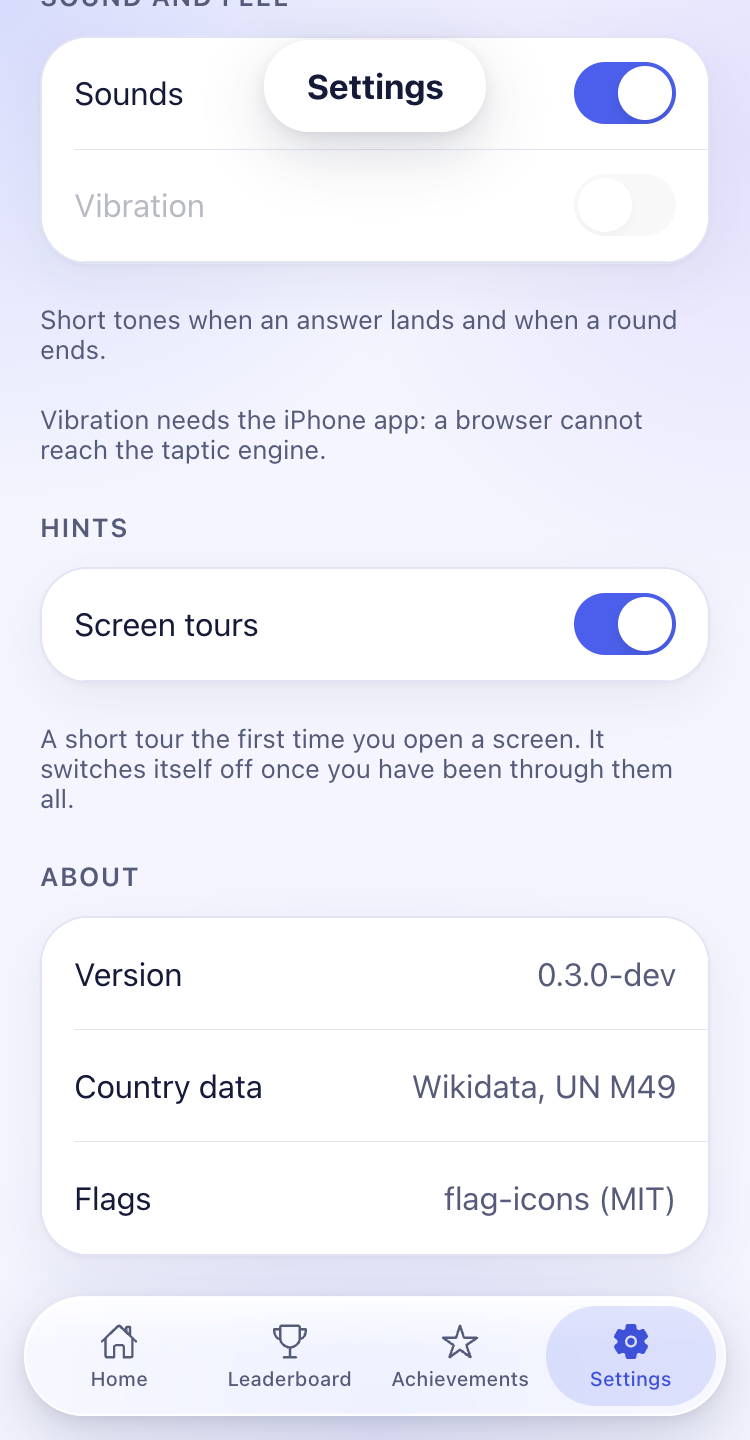
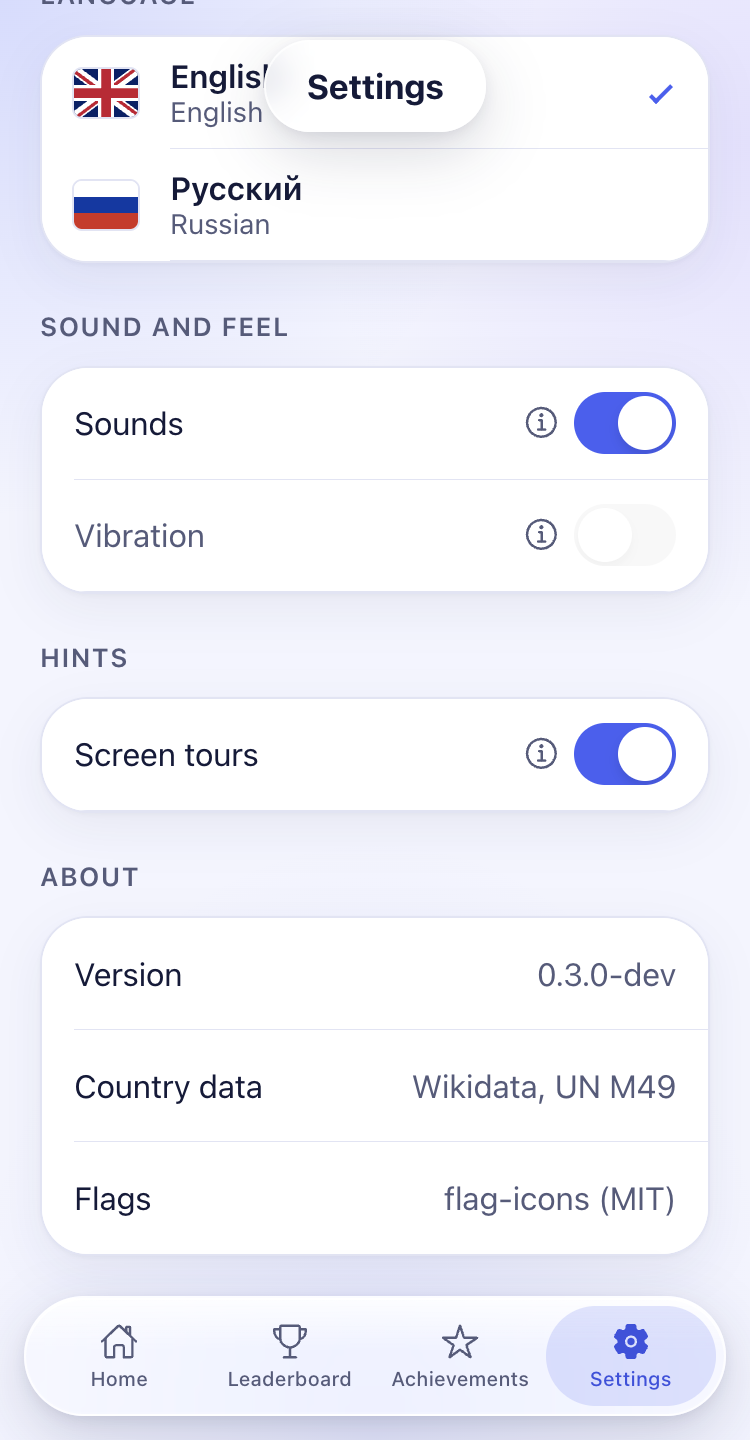
feat: a setting's note behind an "i" on its own row
Three notes stacked under the two Sound and haptics toggles read as one
block, and the note under the Screen tours switch looked like the start
of the next section rather than an explanation of the switch above it.

Each row now carries a named "i" button that opens its own text in a
popover anchored to the press, so the note arrives pointing at the
control it belongs to. The disabled vibration toggle is the exception
that must explain itself without being asked: its reason also stays in
a visually hidden paragraph it points at with aria-describedby.

Ionic puts aria-modal on ion-popover but gives it no role, which axe
reports as a forbidden ARIA attribute; the popover says role="dialog",
which it is, and can then be named as well.

diff --git a/apps/shell/src/app/settings/settings.page.html b/apps/shell/src/app/settings/settings.page.html
@@ -65,36 +65,56 @@
       <h2 id="feel-title" class="wq-section-title">
         {{ 'settings.feel.title' | transloco }}
       </h2>
+      <!-- Each note belongs to its own row, behind the "i": stacked under
+           the card they ran together and it took reading to tell which
+           control each one was about (design-system.md). -->
       <div class="list">
         <ion-item>
+          <ion-label>{{ 'settings.feel.sound' | transloco }}</ion-label>
+          <wq-info-button
+            slot="end"
+            data-testid="sound-info"
+            [label]="'settings.info'| transloco: { name: 'settings.feel.sound' | transloco }"
+            [text]="'settings.feel.soundHint' | transloco"
+          />
           <ion-toggle
+            slot="end"
             data-testid="sound-toggle"
+            [attr.aria-label]="'settings.feel.sound' | transloco"
             [checked]="settings.sound()"
             (ionChange)="onSoundChange($event)"
-          >
-            {{ 'settings.feel.sound' | transloco }}
-          </ion-toggle>
+          />
         </ion-item>
         <!-- Shown everywhere, so the app never looks as if it were missing a
-             setting; a browser simply has no taptic engine, and the note
-             below says so. -->
+             setting; a browser simply has no taptic engine, and the toggle
+             says so to anyone who asks it. -->
         <ion-item>
+          <!-- The toggle used to carry this text and greyed it out itself
+               when it was disabled; now the row says it. -->
+          <ion-label [class.unavailable]="!nativePlatform">
+            {{ 'settings.feel.haptics' | transloco }}
+          </ion-label>
+          <wq-info-button
+            slot="end"
+            data-testid="haptics-info"
+            [label]="'settings.info' | transloco: { name: 'settings.feel.haptics' | transloco }"
+            [text]="(nativePlatform? 'settings.feel.hapticsHint': 'settings.feel.hapticsOnIos') | transloco"
+          />
           <ion-toggle
+            slot="end"
             data-testid="haptics-toggle"
+            [attr.aria-label]="'settings.feel.haptics' | transloco"
             [checked]="nativePlatform && settings.haptics()"
             [disabled]="!nativePlatform"
             [attr.aria-describedby]="nativePlatform ? null : 'haptics-note'"
             (ionChange)="onHapticsChange($event)"
-          >
-            {{ 'settings.feel.haptics' | transloco }}
-          </ion-toggle>
+          />
         </ion-item>
       </div>
-      <p class="wq-text-secondary hint">
-        {{ 'settings.feel.hint' | transloco }}
-      </p>
+      <!-- A disabled control must explain itself without being asked, so
+           the reason is on the toggle as well as behind the "i". -->
       @if (!nativePlatform) {
-      <p id="haptics-note" class="wq-text-secondary hint">
+      <p id="haptics-note" class="wq-visually-hidden">
         {{ 'settings.feel.hapticsOnIos' | transloco }}
       </p>
       }
@@ -109,18 +129,22 @@
            it back on starts them again (tips.store.ts). -->
       <div class="list">
         <ion-item>
+          <ion-label>{{ 'settings.tips.label' | transloco }}</ion-label>
+          <wq-info-button
+            slot="end"
+            data-testid="tips-info"
+            [label]="'settings.info' | transloco: { name: 'settings.tips.label' | transloco }"
+            [text]="'settings.tips.hint' | transloco"
+          />
           <ion-toggle
+            slot="end"
             data-testid="tips-toggle"
+            [attr.aria-label]="'settings.tips.label' | transloco"
             [checked]="tips.on()"
             (ionChange)="onTipsChange($event)"
-          >
-            {{ 'settings.tips.label' | transloco }}
-          </ion-toggle>
+          />
         </ion-item>
       </div>
-      <p class="wq-text-secondary hint">
-        {{ 'settings.tips.hint' | transloco }}
-      </p>
     </section>
 
     <section class="wq-section" aria-labelledby="about-title">

diff --git a/libs/client/ui/src/lib/info/info-button.ts b/libs/client/ui/src/lib/info/info-button.ts
@@ -1,0 +1,63 @@
+import { Component, input, signal } from '@angular/core';
+import { IonContent, IonIcon, IonPopover } from '@ionic/angular';
+
+/**
+ * The "i" beside a setting, and the note it opens.
+ *
+ * A note under a group of settings has two problems: several of them run
+ * together into one paragraph, and the reader has to work out which control
+ * each one is about. Here the note belongs to its row, hidden until it is
+ * asked for, so the list stays a list of settings.
+ *
+ * The popover is anchored to the click (`event`), which is how a popover
+ * points at the thing it explains on iOS; dismissing it is Ionic's own
+ * backdrop. The button is a real `<button>` with a label, because an icon
+ * on its own says nothing to a screen reader.
+ */
+@Component({
+  selector: 'wq-info-button',
+  imports: [IonIcon, IonPopover, IonContent],
+  template: `
+    <button
+      type="button"
+      class="info"
+      data-testid="info-button"
+      [attr.aria-label]="label()"
+      (click)="present($event)"
+    >
+      <ion-icon name="information-circle-outline" aria-hidden="true" />
+    </button>
+    <!-- Ionic marks the popover aria-modal but gives it no role, which axe
+         reports as an ARIA attribute the element may not carry. It is a
+         dialog, so it says so here — and then it can be named as well. -->
+    <ion-popover
+      role="dialog"
+      [attr.aria-label]="label()"
+      [isOpen]="open()"
+      [event]="anchor()"
+      (didDismiss)="open.set(false)"
+    >
+      <ng-template>
+        <ion-content class="ion-padding">
+          <p class="note" data-testid="info-note">{{ text() }}</p>
+        </ion-content>
+      </ng-template>
+    </ion-popover>
+  `,
+  styleUrl: './info-button.scss',
+})
+export class InfoButton {
+  /** The note itself (this library has no texts). */
+  readonly text = input.required<string>();
+  /** Translated name of the button, e.g. "About sounds". */
+  readonly label = input.required<string>();
+
+  protected readonly open = signal(false);
+  /** The click the popover points at; Ionic reads it when it opens. */
+  protected readonly anchor = signal<Event | undefined>(undefined);
+
+  protected present(event: Event): void {
+    this.anchor.set(event);
+    this.open.set(true);
+  }
+}

diff --git a/libs/client/ui/src/lib/info/info-button.spec.ts b/libs/client/ui/src/lib/info/info-button.spec.ts
@@ -1,0 +1,43 @@
+import { render, screen } from '@testing-library/angular';
+import { InfoButton } from './info-button';
+
+const renderButton = () =>
+  render(InfoButton, {
+    inputs: {
+      text: 'Short tones when an answer lands.',
+      label: 'About Sounds',
+    },
+  });
+
+/** Ionic's popover is not upgraded in jsdom, so its inputs are properties. */
+const popover = () =>
+  document.querySelector('ion-popover') as HTMLElement & {
+    isOpen?: boolean;
+    event?: Event;
+  };
+
+describe('InfoButton', () => {
+  it('is a labelled button, not a bare icon', async () => {
+    await renderButton();
+
+    expect(screen.getByRole('button', { name: 'About Sounds' })).toBeTruthy();
+  });
+
+  it('keeps the note away until it is asked for', async () => {
+    await renderButton();
+
+    expect(popover().isOpen).toBe(false);
+    expect(screen.queryByTestId('info-note')).toBeNull();
+  });
+
+  it('opens the note where the player pressed', async () => {
+    const { fixture } = await renderButton();
+
+    screen.getByTestId('info-button').click();
+    fixture.detectChanges();
+
+    expect(popover().isOpen).toBe(true);
+    // Ionic points the popover at the click, the way iOS does.
+    expect(popover().event).toBeInstanceOf(Event);
+  });
+});

diff --git a/libs/client/i18n/src/lib/translations/ru.ts b/libs/client/i18n/src/lib/translations/ru.ts
@@ -284,6 +284,7 @@ export const ru: TranslationShape = {
   },
   settings: {
     title: 'Настройки',
+    info: 'Подробнее: {{name}}',
     account: {
       title: 'Аккаунт',
       checking: 'Проверяем вход…',
@@ -376,7 +377,8 @@ export const ru: TranslationShape = {
       title: 'Звук и отклик',
       sound: 'Звуки',
       haptics: 'Вибрация',
-      hint: 'Короткие сигналы на ответ и в конце раунда.',
+      soundHint: 'Короткие сигналы на ответ и в конце раунда.',
+      hapticsHint: 'Лёгкий тактильный отклик на ответ и в конце раунда.',
       hapticsOnIos:
         'Вибрация работает только в приложении для iPhone: из браузера нет доступа к тактильному отклику.',
     },

diff --git a/apps/shell-e2e/src/support/accessibility.ts b/apps/shell-e2e/src/support/accessibility.ts
@@ -19,7 +19,12 @@ const STANDARD = {
   },
 };
 
-/** Prints every violation in the terminal, not only the count. */
+/**
+ * Prints every violation in the terminal, not only the count: where it is,
+ * the element itself and what axe objected to. Without the element, a rule
+ * that fires inside a component's own markup (an overlay, say) leaves
+ * nothing to go on but a generated id.
+ */
 const report = (violations: Result[]) => {
   cy.task(
     'log',
@@ -27,7 +32,10 @@ const report = (violations: Result[]) => {
       .map(
         (violation) =>
           `${violation.impact ?? 'unknown'} · ${violation.id}: ${violation.help}\n    ${violation.nodes
-            .map((node) => node.target.join(' '))
+            .map(
+              (node) =>
+                `${node.target.join(' ')}\n      ${node.html}\n      ${node.failureSummary ?? ''}`,
+            )
             .join('\n    ')}`,
       )
       .join('\n'),

diff --git a/apps/shell/src/app/settings/settings.page.spec.ts b/apps/shell/src/app/settings/settings.page.spec.ts
@@ -108,6 +108,21 @@ describe('SettingsPage', () => {
     expect(flags.every((img) => img.getAttribute('alt') === '')).toBe(true);
   });
 
+  // Stacked under the card the notes ran together, and it took reading to
+  // tell which control each one was about.
+  it('puts every note behind its own "i"', async () => {
+    await render(SettingsPage, { providers: provideShellTesting() });
+
+    for (const name of [
+      'About Sounds',
+      'About Vibration',
+      'About Screen tours',
+    ]) {
+      expect(screen.getByRole('button', { name })).toBeTruthy();
+    }
+    expect(screen.queryByText(/Short tones/)).toBeNull();
+  });
+
   it('turns the sounds off through the store', async () => {
     await render(SettingsPage, { providers: provideShellTesting() });
     const store = TestBed.inject(SettingsStore);

diff --git a/apps/shell-e2e/src/e2e/settings.cy.ts b/apps/shell-e2e/src/e2e/settings.cy.ts
@@ -47,6 +47,22 @@ describe('settings', () => {
     );
   });
 
+  it('explains a setting where the setting is, and puts it away again', () => {
+    cy.visit('/settings');
+    cy.get('[data-testid="sound-info"] button').click({
+      scrollBehavior: 'center',
+    });
+
+    cy.get('[data-testid="info-note"]').should(
+      'contain.text',
+      'Short tones when an answer lands',
+    );
+    // The backdrop lives in the popover's shadow root, out of reach of a
+    // test; Escape is the other way out.
+    cy.get('body').type('{esc}');
+    cy.get('[data-testid="info-note"]').should('not.exist');
+  });
+
   it('shows bundled flag images for the languages', () => {
     cy.visit('/settings');
     cy.get('[data-testid="language-ru"] img.flag')

diff --git a/libs/client/i18n/src/lib/translations/en.ts b/libs/client/i18n/src/lib/translations/en.ts
@@ -292,6 +292,8 @@ export const en = {
   },
   settings: {
     title: 'Settings',
+    /** The "i" beside a setting: "About Sounds". */
+    info: 'About {{name}}',
     account: {
       title: 'Account',
       checking: 'Checking your sign-in…',
@@ -387,7 +389,8 @@ export const en = {
       title: 'Sound and feel',
       sound: 'Sounds',
       haptics: 'Vibration',
-      hint: 'Short tones when an answer lands and when a round ends.',
+      soundHint: 'Short tones when an answer lands and when a round ends.',
+      hapticsHint: 'A light tap when an answer lands and when a round ends.',
       hapticsOnIos:
         'Vibration needs the iPhone app: a browser cannot reach the taptic engine.',
     },

diff --git a/libs/client/ui/src/lib/info/info-button.scss b/libs/client/ui/src/lib/info/info-button.scss
@@ -1,0 +1,31 @@
+:host {
+  display: inline-flex;
+}
+
+// Quiet enough not to compete with the setting's own control, and large
+// enough to hit: WCAG 2.2 asks for 24 px, and a finger asks for more.
+.info {
+  display: inline-flex;
+  align-items: center;
+  justify-content: center;
+  width: 32px;
+  height: 32px;
+  padding: 0;
+  border: 0;
+  border-radius: var(--wq-radius-pill);
+  background: transparent;
+  color: var(--wq-color-text-secondary);
+  font-size: 1.25rem;
+  cursor: pointer;
+}
+
+ion-popover {
+  --max-width: 280px;
+  --backdrop-opacity: 0.2;
+}
+
+.note {
+  margin: 0;
+  color: var(--wq-color-text-primary);
+  font-size: var(--wq-font-size-caption);
+}

diff --git a/apps/shell-e2e/src/e2e/accessibility.cy.ts b/apps/shell-e2e/src/e2e/accessibility.cy.ts
@@ -48,6 +48,13 @@ describe('accessibility', () => {
       cy.visit('/settings');
       byTestId('theme-dark', { timeout: 20_000 }).should('exist');
       expectAccessible();
+
+      // A note lives in a dialog over the page, so it is checked there.
+      cy.get('[data-testid="sound-info"] button').click({
+        scrollBehavior: 'center',
+      });
+      byTestId('info-note').should('exist');
+      expectAccessible();
     });
 
     it('checks the quiz itself and its results, in both difficulties', () => {

diff --git a/apps/shell/src/app/settings/settings.page.scss b/apps/shell/src/app/settings/settings.page.scss
@@ -38,9 +38,8 @@ ion-item {
   color: var(--wq-color-text-secondary);
 }
 
-// A note under a group of settings, not a heading: it used to read at body
-// size and looked like the next section's title.
-.hint {
-  margin: var(--wq-space-2) 0 0;
-  font-size: var(--wq-font-size-caption);
+// A setting the platform cannot offer: the toggle is disabled, and its name
+// reads as quietly as the toggle looks.
+.unavailable {
+  color: var(--wq-color-text-secondary);
 }

diff --git a/apps/shell/src/app/settings/settings.page.ts b/apps/shell/src/app/settings/settings.page.ts
@@ -16,7 +16,7 @@ import {
   type ToggleCustomEvent,
 } from '@ionic/angular';
 import { TranslocoPipe } from '@jsverse/transloco';
-import { PageHeader } from '@world-quiz/client/ui';
+import { InfoButton, PageHeader } from '@world-quiz/client/ui';
 import {
   isThemePreference,
   SettingsStore,
@@ -56,6 +56,7 @@ interface LanguageOption {
     IonRadioGroup,
     IonRadio,
     IonNote,
+    InfoButton,
     TranslocoPipe,
     AccountSection,
   ],
